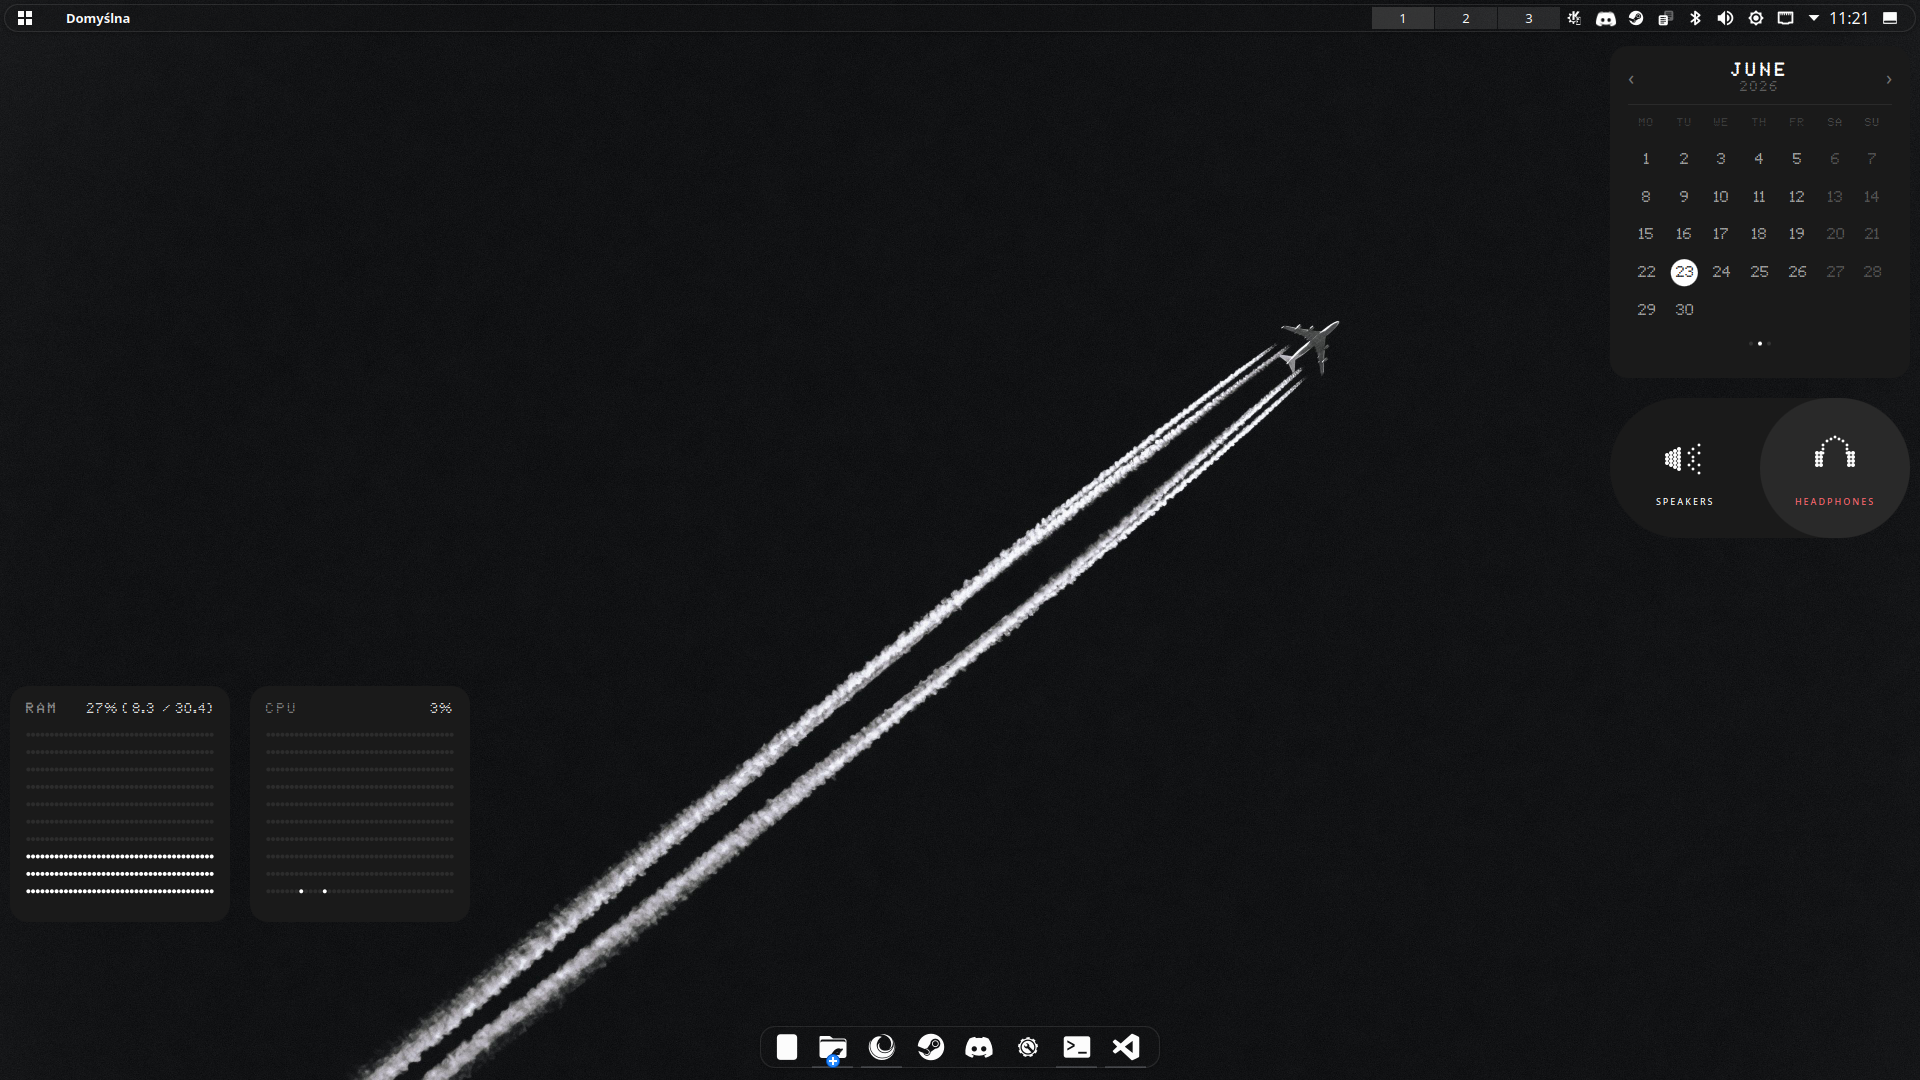
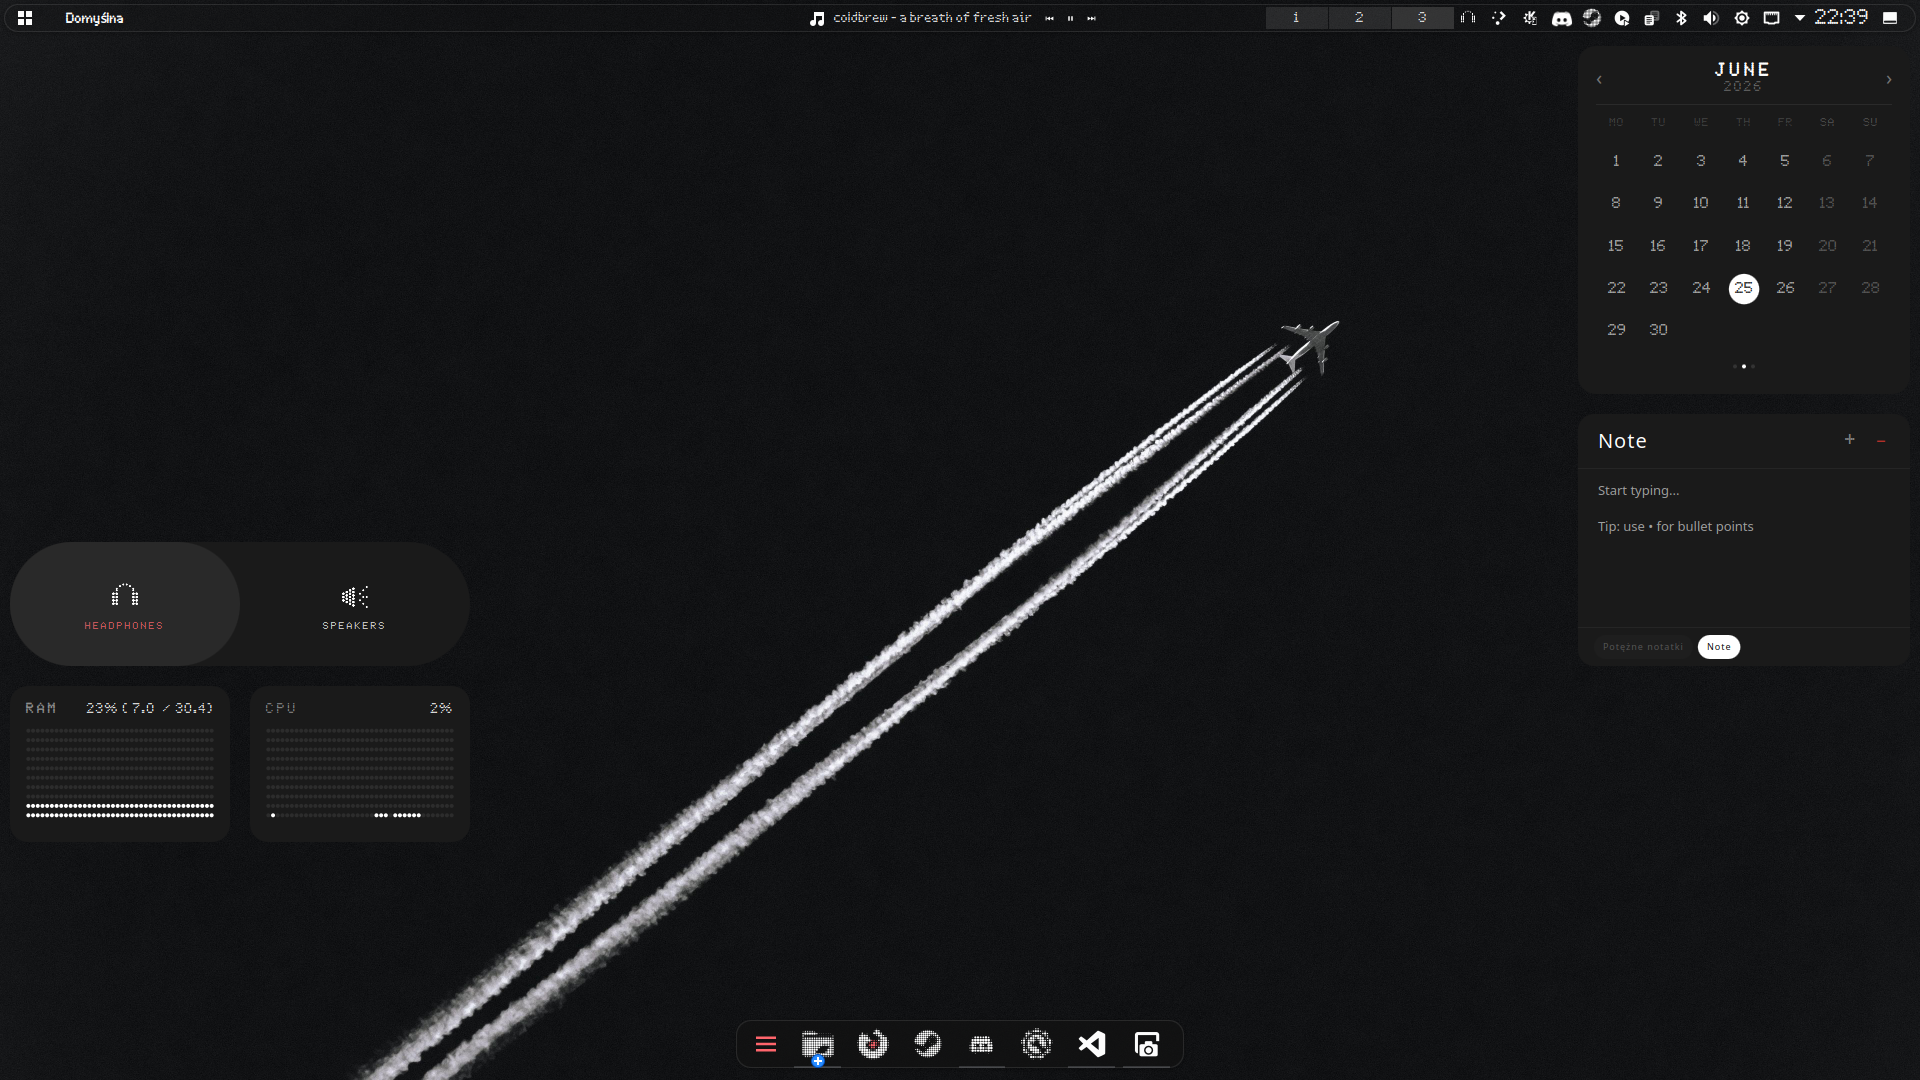
Notes and new screenshot

diff --git a/widgets/nothing-notes-widget/contents/ui/main.qml b/widgets/nothing-notes-widget/contents/ui/main.qml
@@ -1,0 +1,305 @@
+import QtQuick
+import QtQuick.Layouts
+import QtQuick.Controls as QQC2
+import org.kde.plasma.plasmoid
+import org.kde.plasma.core as PlasmaCore
+
+PlasmoidItem {
+    id: root
+
+    Plasmoid.backgroundHints: PlasmaCore.Types.NoBackground
+    preferredRepresentation: fullRepresentation
+
+    property var notes: []
+    property int activeIndex: 0
+
+    function loadNotes() {
+        try {
+            var parsed = JSON.parse(plasmoid.configuration.notesData)
+            notes = parsed.length > 0 ? parsed : defaultNotes()
+        } catch(e) {
+            notes = defaultNotes()
+        }
+        activeIndex = Math.min(plasmoid.configuration.activeNoteId, notes.length - 1)
+    }
+
+    function saveNotes() {
+        plasmoid.configuration.notesData = JSON.stringify(notes)
+        plasmoid.configuration.activeNoteId = activeIndex
+    }
+
+    function defaultNotes() {
+        return [{ id: 1, title: "Note", body: "• Do not forget to answer the email.\n\n• Buy the cargo pants.\n\n• Fix the bike tire.", createdAt: Date.now() }]
+    }
+
+    function addNote() {
+        var n = notes.slice()
+        var newId = Date.now()
+        n.push({ id: newId, title: "Note", body: "", createdAt: newId })
+        notes = n
+        activeIndex = n.length - 1
+        saveNotes()
+    }
+
+    function deleteNote(idx) {
+        if (notes.length <= 1) return
+        var n = notes.slice()
+        n.splice(idx, 1)
+        notes = n
+        if (activeIndex >= n.length) activeIndex = n.length - 1
+        saveNotes()
+    }
+
+    function updateTitle(idx, val) {
+        var n = notes.slice()
+        n[idx] = Object.assign({}, n[idx], { title: val })
+        notes = n
+        saveNotes()
+    }
+
+    function updateBody(idx, val) {
+        var n = notes.slice()
+        n[idx] = Object.assign({}, n[idx], { body: val })
+        notes = n
+        saveNotes()
+    }
+
+    Component.onCompleted: loadNotes()
+
+    fullRepresentation: Item {
+        Layout.preferredWidth:  340
+        Layout.preferredHeight: 260
+        Layout.minimumWidth:    100
+        Layout.minimumHeight:   100
+
+        // ── karta notatki ────────────────────────────────────────────────────
+        Rectangle {
+            id: card
+            anchors.fill: parent
+            anchors.margins: 10
+            color: "#1a1a1a"
+            radius: 16
+
+            // ── zagięty róg (prawy dolny) ────────────────────────────────────
+            Canvas {
+                id: cornerCanvas
+                width: 28
+                height: 28
+                anchors.right: parent.right
+                anchors.bottom: parent.bottom
+
+                onPaint: {
+                    var ctx = getContext("2d")
+                    ctx.clearRect(0, 0, width, height)
+                }
+            }
+
+            Column {
+                anchors {
+                    fill: parent
+                    margins: 0
+                }
+                spacing: 0
+
+                // ── nagłówek ─────────────────────────────────────────────────
+                Item {
+                    width: parent.width
+                    height: 54
+
+                    // tytuł
+                    QQC2.TextField {
+                        id: titleField
+                        anchors {
+                            left: parent.left
+                            right: btnRow.left
+                            verticalCenter: parent.verticalCenter
+                            leftMargin: 20
+                            rightMargin: 8
+                        }
+                        text: root.notes.length > 0 ? root.notes[root.activeIndex].title : ""
+                        placeholderText: "Title"
+                        font.pixelSize: 20
+                        font.family: "Ndot 55"
+                        font.letterSpacing: 1
+                        color: "#ffffff"
+                        placeholderTextColor: "#444"
+                        background: null
+                        leftPadding: 0
+
+                        onTextChanged: {
+                            if (root.notes.length > 0 && text !== root.notes[root.activeIndex].title)
+                                root.updateTitle(root.activeIndex, text)
+                        }
+
+                        Connections {
+                            target: root
+                            function onActiveIndexChanged() {
+                                titleField.text = root.notes.length > 0
+                                    ? root.notes[root.activeIndex].title : ""
+                            }
+                            function onNotesChanged() {
+                                if (root.notes.length > 0)
+                                    titleField.text = root.notes[root.activeIndex].title
+                            }
+                        }
+                    }
+
+                    // knopciki + i -
+                    Row {
+                        id: btnRow
+                        anchors {
+                            right: parent.right
+                            verticalCenter: parent.verticalCenter
+                            rightMargin: 16
+                        }
+                        spacing: 4
+
+                        Rectangle {
+                            width: 26; height: 26; radius: 13
+                            color: addMa.containsMouse ? "#2a2a2a" : "transparent"
+                            Text {
+                                anchors.centerIn: parent
+                                text: "+"
+                                font.pixelSize: 17
+                                color: Qt.rgba(255,255,255,0.5)
+                            }
+                            MouseArea {
+                                id: addMa
+                                anchors.fill: parent
+                                hoverEnabled: true
+                                cursorShape: Qt.PointingHandCursor
+                                onClicked: root.addNote()
+                            }
+                        }
+
+                        Rectangle {
+                            width: 26; height: 26; radius: 13
+                            visible: root.notes.length > 1
+                            color: delMa.containsMouse ? "#2a2a2a" : "transparent"
+                            Text {
+                                anchors.centerIn: parent
+                                text: "−"
+                                font.pixelSize: 17
+                                color: "#FF3B30"
+                                opacity: 0.8
+                            }
+                            MouseArea {
+                                id: delMa
+                                anchors.fill: parent
+                                hoverEnabled: true
+                                cursorShape: Qt.PointingHandCursor
+                                onClicked: root.deleteNote(root.activeIndex)
+                            }
+                        }
+                    }
+                }
+
+                // ── separator ─────────────────────────────────────────────────
+                Rectangle {
+                    width: parent.width
+                    height: 1
+                    color: "#252525"
+                }
+
+                // ── treść notatki ────────────────────────────────────────────
+                QQC2.ScrollView {
+                    width: parent.width
+                    height: parent.height - 55 - 1 - 38
+
+                    QQC2.TextArea {
+                        id: bodyArea
+                        width: parent.width
+                        wrapMode: TextEdit.Wrap
+                        text: root.notes.length > 0 ? root.notes[root.activeIndex].body : ""
+                        placeholderText: "Start typing...\n\nTip: use • for bullet points"
+                        font.pixelSize: 13
+                        font.family: "Ndot 55"
+                        color: "#dddddd"
+                        placeholderTextColor: "#333"
+                        leftPadding: 20
+                        rightPadding: 36
+                        topPadding: 12
+                        bottomPadding: 12
+                        background: null
+
+                        // koloruj linie zaczynające się od •
+                        textFormat: TextEdit.PlainText
+
+                        onTextChanged: {
+                            if (root.notes.length > 0 && text !== root.notes[root.activeIndex].body)
+                                root.updateBody(root.activeIndex, text)
+                        }
+
+                        Connections {
+                            target: root
+                            function onActiveIndexChanged() {
+                                bodyArea.text = root.notes.length > 0
+                                    ? root.notes[root.activeIndex].body : ""
+                            }
+                        }
+                    }
+                }
+
+                // ── separator ─────────────────────────────────────────────────
+                Rectangle {
+                    width: parent.width
+                    height: 1
+                    color: "#252525"
+                }
+
+                // ── zakładki ─────────────────────────────────────────────────
+                Item {
+                    width: parent.width
+                    height: 37
+
+                    Flickable {
+                        anchors {
+                            fill: parent
+                            leftMargin: 16
+                            rightMargin: 16
+                        }
+                        contentWidth: tabRow.implicitWidth
+                        clip: true
+                        flickableDirection: Flickable.HorizontalFlick
+
+                        Row {
+                            id: tabRow
+                            anchors.verticalCenter: parent.verticalCenter
+                            spacing: 5
+
+                            Repeater {
+                                model: root.notes
+
+                                Rectangle {
+                                    height: 24
+                                    width: tabTxt.implicitWidth + 18
+                                    radius: 12
+                                    color: index === root.activeIndex ? "#ffffff" : "#1e1e1e"
+
+                                    Behavior on color { ColorAnimation { duration: 150 } }
+
+                                    Text {
+                                        id: tabTxt
+                                        anchors.centerIn: parent
+                                        text: modelData.title || "Note"
+                                        font.pixelSize: 9
+                                        font.family: "Ndot 55"
+                                        font.letterSpacing: 1
+                                        color: index === root.activeIndex ? "#111111" : "#555555"
+                                        Behavior on color { ColorAnimation { duration: 150 } }
+                                    }
+
+                                    MouseArea {
+                                        anchors.fill: parent
+                                        cursorShape: Qt.PointingHandCursor
+                                        onClicked: root.activeIndex = index
+                                    }
+                                }
+                            }
+                        }
+                    }
+                }
+            }
+        }
+    }
+}

diff --git a/README.md b/README.md
@@ -12,6 +12,8 @@ Shows cpu usage
 Basic calendar
 4. **nothing-audio-widget**
 Changes audio input on click. Available config.
+5. **nothing-notes-widget**
+Basic sticky notes function.
 
 ### How does it look
 <img alt="screenshot" src="repositoryStuff/screenshot.png"/>